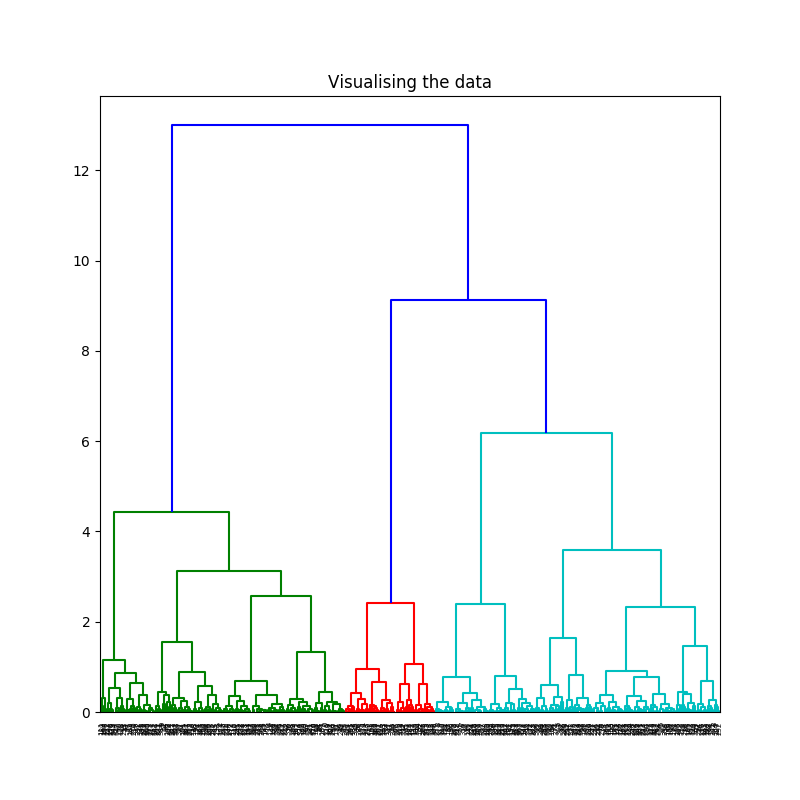
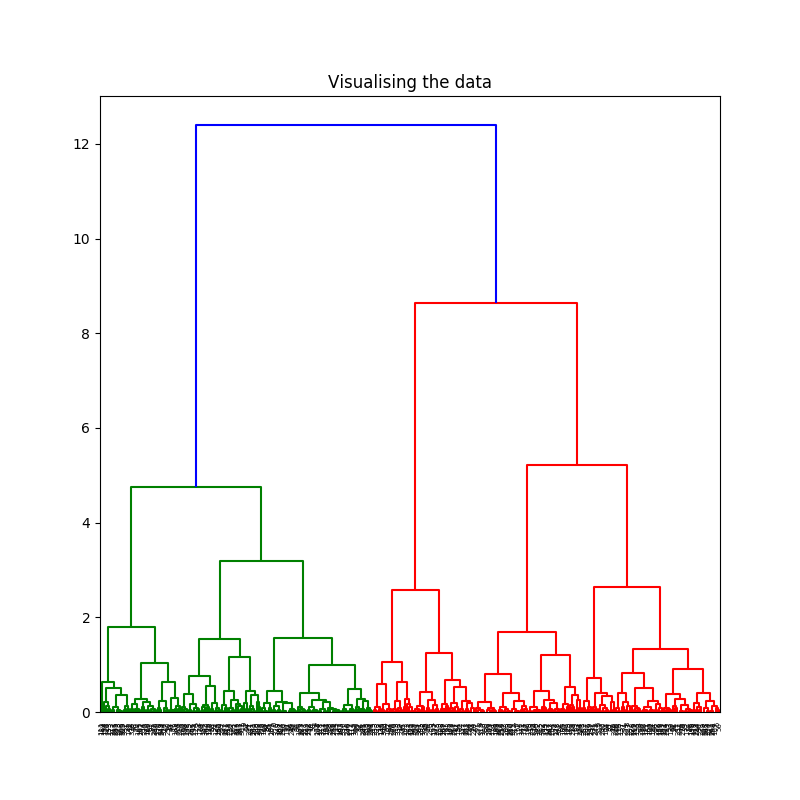
working demo

diff --git a/templates/cluster_analysis.html b/templates/cluster_analysis.html
@@ -9,7 +9,7 @@
   <meta name="description" content="">
   <meta name="author" content="">
 
-  <title>Your PROJECT</title>
+  <title>Result Page</title>
 
   <!-- Custom fonts for this template-->
   <link href="vendor/fontawesome-free/css/all.min.css" rel="stylesheet" type="text/css">
@@ -98,8 +98,15 @@
                                   <h6 class="m-0 font-weight-bold text-primary">Pros</h6>
                                 </div>
                                 <div class="card-body">
-                                  Is great at separating clusters of high density versus clusters of low density within a given dataset. <br>
-                                  Is great with handling outliers within the dataset.
+                                  <ul>
+                                    <li>
+                                      Is great at separating clusters of high density versus clusters of low density within a given dataset.
+                                    </li>
+                                    <li>
+                                      Is great with handling outliers within the dataset.
+                                    </li>
+                                  </ul>
+
                                 </div>
                               </div>
                             </div>
@@ -112,8 +119,16 @@
                                   <h6 class="m-0 font-weight-bold text-primary">Cons</h6>
                                 </div>
                                 <div class="card-body">
-                                  Does not work well when dealing with clusters of varying densities. While DBSCAN is great at separating high density clusters from low density clusters, DBSCAN struggles with clusters of similar density. <br>
-                                  Struggles with high dimensionality data. I know, this entire article I have stated how DBSCAN is great at contorting the data into different dimensions and shapes. However, DBSCAN can only go so far, if given data with too many dimensions, DBSCAN suffers
+                                  <ul>
+                                    <li>
+                                    Does not work well when dealing with clusters of varying densities. While DBSCAN is great at separating high density clusters from low density clusters, DBSCAN struggles with clusters of similar density.
+                                  </li>
+                                  <li>
+                                    Struggles with high dimensionality data. I know, this entire article I have stated how DBSCAN is great at contorting the data into different dimensions and shapes.
+                                    However, DBSCAN can only go so far, if given data with too many dimensions, DBSCAN suffers
+                                  </li>
+                                  </ul>
+
                                 </div>
                               </div>
                             </div>
@@ -126,7 +141,7 @@
                                   <h6 class="m-0 font-weight-bold text-primary">Results </h6>
                                 </div>
                                 <div class="card-body">
-                                  <img src="cluster/dbscan.png" alt="DBSCAN Image">
+                                  <img src="cluster/dbscan.png" height="360px" width="480px" alt="DBSCAN Image">
                                 </div>
                               </div>
     
@@ -139,7 +154,108 @@
 
           </div>
 
+          <div class=" col-lg-12">
+            <div class="card shadow mb-4">
+              <!-- Card Header - Accordion -->
+              <a href="#c2" class="d-block card-header py-3 collapsed" data-toggle="collapse" role="button" aria-expanded="false" aria-controls="c2">
+                <h6 class="m-0 font-weight-bold text-primary"> Agglomerative Clustering </h6>
+              </a>
+              <!-- Card Content - Collapse -->
+              <div class="collapse" id="c2">
+                <div class="card-body">
+                <div class="row">
+                    <div class=" col-lg-6">
 
+                        <!-- Basic Card Example -->
+                        <div class="card shadow mb-4">
+                          <div class="card-header py-3">
+                            <h6 class="m-0 font-weight-bold text-primary">Algorithm</h6>
+                          </div>
+                          <div class="card-body">
+                            <ul>
+                                <li>
+                                The agglomerative clustering is the most common type of hierarchical clustering used to group objects in clusters based on their similarity. It’s also known as AGNES (Agglomerative Nesting).
+                                </li>
+                                <li>
+                                 The algorithm starts by treating each object as a singleton cluster. Next, pairs of clusters are successively merged until all clusters have been merged into one big cluster containing all objects. The result is a tree-based representation of the objects, named dendrogram.
+                                </li>
+                            </ul>
+                          </div>
+                        </div>
+                      </div>
+          
+                      <div class=" col-lg-6">
+          
+                        <!-- Basic Card Example -->
+                        <div class="card shadow mb-4">
+                          <div class="card-header py-3">
+                            <h6 class="m-0 font-weight-bold text-primary">Pros & Cons</h6>
+                          </div>
+                          <div class="card-body">
+                            <h3>Pros</h3>
+                            <ul>
+                              <li> Single-link algorithms are best for capturing clusters of different sizes and shapes </li>
+                              <li> It's also sensitive to noise </li>
+                              <li> Complete link and group average are not affected by noise, but have a bias towards finding global patterns</li>
+                            </ul>
+
+                            <h3>Cons</h3>
+                            <ul>
+                              <li>
+                                Only Single-Link is computationally possible for large datasets, but it doesn't give good results because uses too little information
+                              </li>
+                            </ul>
+
+                          </div>
+                        </div>
+                      </div>
+          
+                      <div class=" col-lg-6">
+          
+                        <!-- Basic Card Example -->
+                        <div class="card shadow mb-4">
+                          <div class="card-header py-3">
+                            <h6 class="m-0 font-weight-bold text-primary">Dendogram</h6>
+                          </div>
+                          <div class="card-body">
+
+                            <img src="cluster/dendo.png" height="360px" width="480px" alt="Dendo Image">
+
+                          </div>
+                        </div>
+                      </div>
+          
+                      <div class=" col-lg-6">
+          
+                        <!-- Basic Card Example -->
+                        <div class="card shadow mb-4">
+                          <div class="card-header py-3">
+                            <h6 class="m-0 font-weight-bold text-primary">Results </h6>
+                          </div>
+                          <div class="card-body">
+                            <span>
+
+                              <img src="cluster/aglo_3.png" height="360px" width="480px" alt="Aglo 3 Image">
+
+                            </span>
+
+                            <span>
+
+                              <img src="cluster/aglo_4.png" height="360px" width="480px" alt="Aglo 4 Image">
+
+                            </span>
+                            
+                          </div>
+                        </div>
+
+                </div>
+                </div>
+              </div>
+            </div>
+            <!-- end of row -->
+          </div>            
+
+        </div>
 
 
           </div>

diff --git a/clusterer.py b/clusterer.py
@@ -89,7 +89,7 @@ def aglo(X_principal):
 
     plt.figure(figsize =(8, 8)) 
     plt.title('Visualising the data') 
-    Dendrogram = shc.dendrogram((shc.linkage( resample(X_principal, n_samples=400, random_state=0) , method ='ward')))
+    Dendrogram = shc.dendrogram((shc.linkage( resample(X_principal, n_samples=350, random_state=0) , method ='ward')))
     plt.savefig('static/cluster/dendo.png') 
 
 
@@ -97,7 +97,8 @@ def aglo(X_principal):
     ac2 = AgglomerativeClustering(n_clusters = 3) 
     
     # Visualizing the clustering 
-    plt.figure(figsize =(6, 6)) 
+    plt.figure(figsize =(6, 6))
+    plt.title('Number of Clusters = 3')  
     plt.scatter(X_principal['P1'], X_principal['P2'],  
             c = ac2.fit_predict(X_principal), cmap ='rainbow') 
 
@@ -106,7 +107,8 @@ def aglo(X_principal):
     ac2 = AgglomerativeClustering(n_clusters = 4) 
     
     # Visualizing the clustering 
-    plt.figure(figsize =(6, 6)) 
+    plt.figure(figsize =(6, 6))
+    plt.title('Number of Clusters = 4') 
     plt.scatter(X_principal['P1'], X_principal['P2'],  
             c = ac2.fit_predict(X_principal), cmap ='rainbow') 
     # plt.show() 
